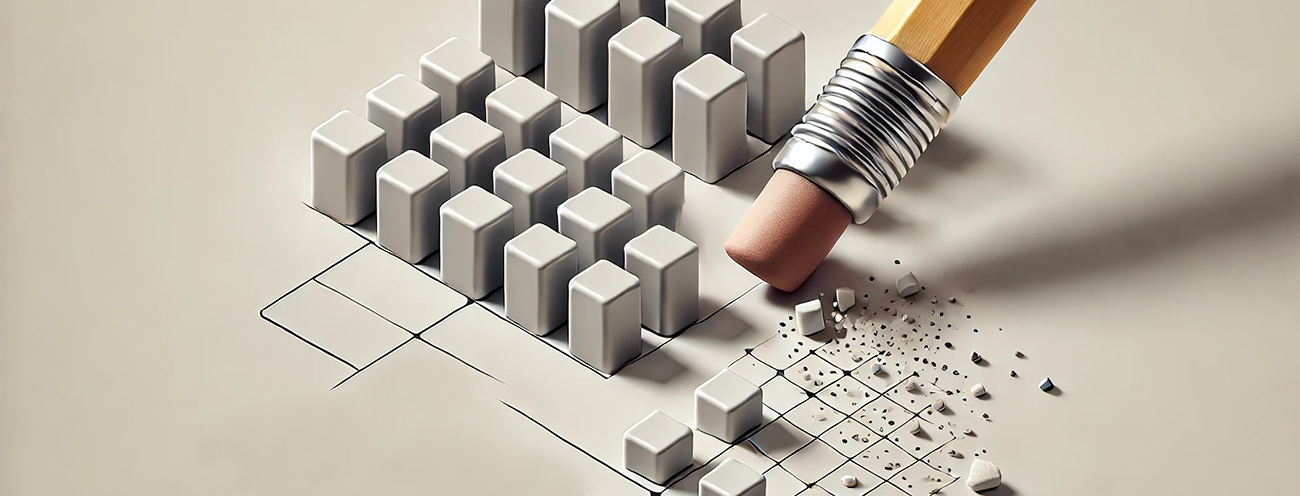
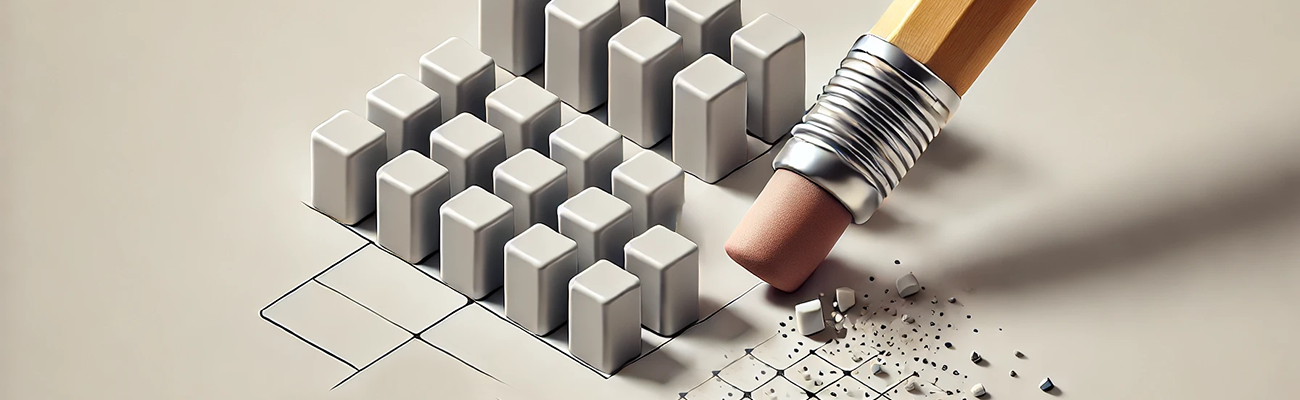
asset images used in readme are enhanced.

diff --git a/README.md b/README.md
@@ -21,15 +21,9 @@
 In many computational scenarios, efficiently managing evolving data states is crucial. Traditional methods that rely on full-state encoding (complete snapshots at each step) can be inefficient due to the large size of the snapshots. Delta encoding addresses this challenge by capturing and applying only the changes (deltas) between successive states of data structures, resulting in significantly smaller and more manageable data.
 
 <div align="center">
-    <figure>
-    <img
-        src="assets/delta_encoding.png"
-        alt="Comparison between traditional data management method and delta encoding." width="350"
-    >
-    <figcaption>
-        Managing evolving data states by full-state encoding (left) vs. delta encoding (right).
-    </figcaption>
-    </figure>
+    <img src="assets/delta_encoding.png" alt="Comparison between traditional data management method and delta encoding." width="350">
+    </br>
+    Managing evolving data states by full-state encoding (left) vs. delta encoding (right).
 </div>
 
 ## Features
